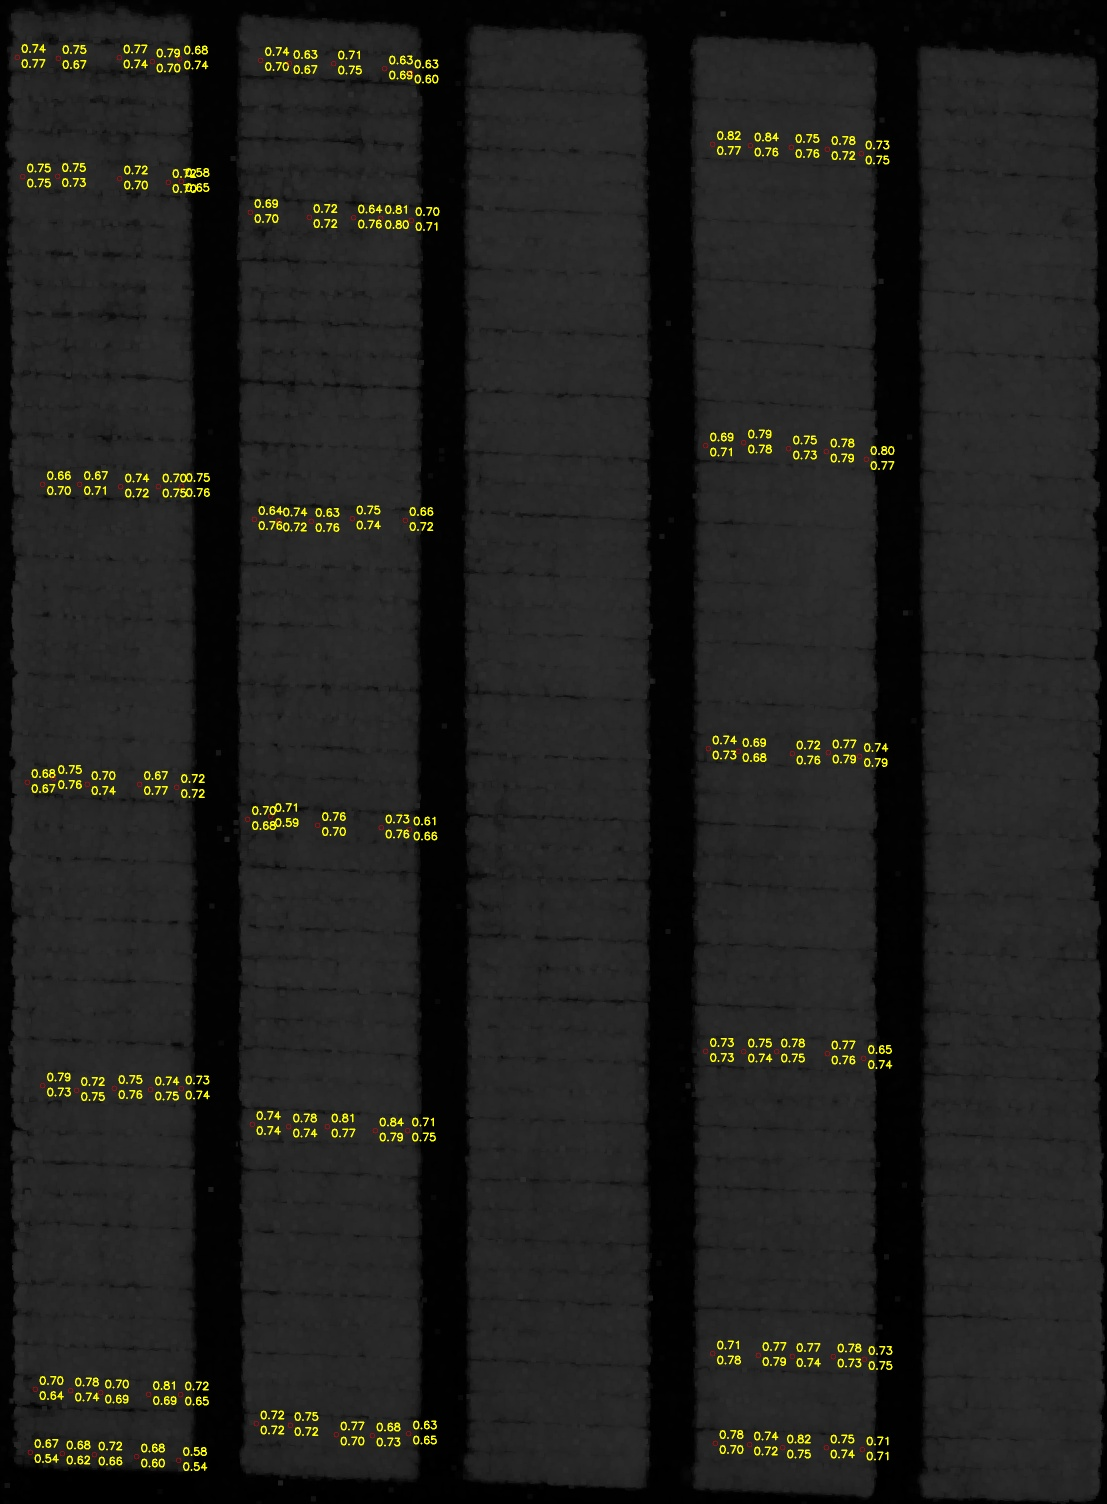
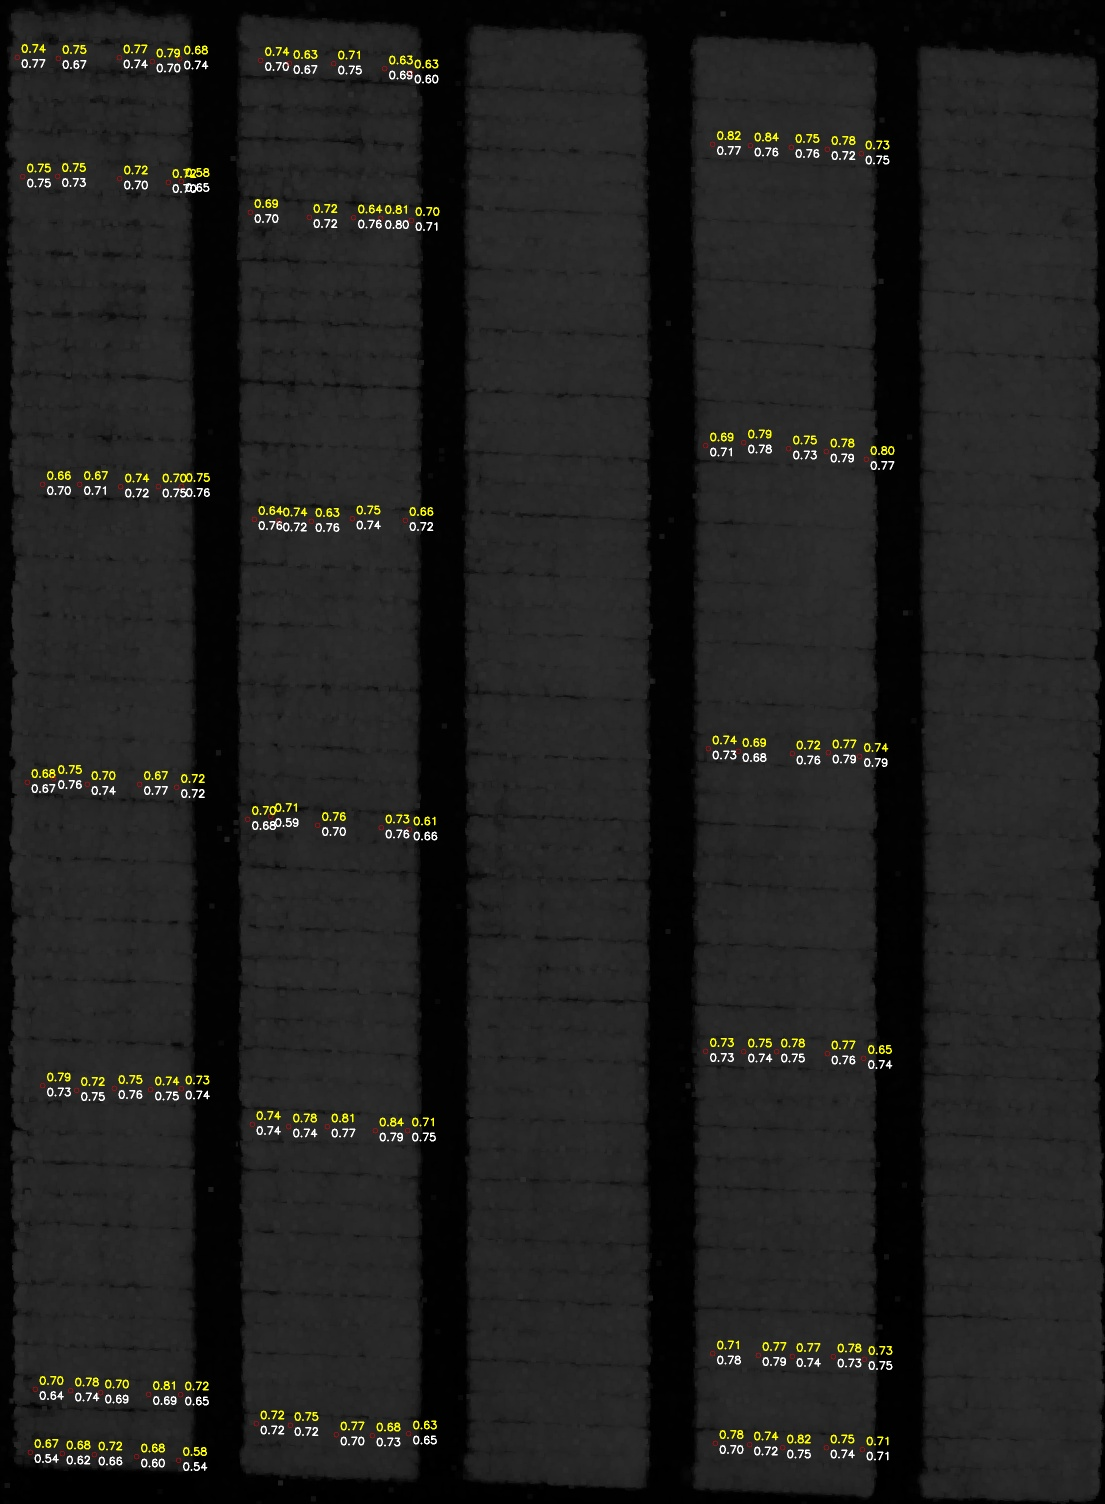
edit: better visualization of height img

diff --git a/tools/validate_heights.py b/tools/validate_heights.py
@@ -12,6 +12,8 @@ import cv2
 MAX_FILTER_SIZE = 10
 FONT_SCALE = .7
 ROUND = 4
+FROM = 0
+TO = 5
 
 sns.set_theme()
 
@@ -20,6 +22,10 @@ uncropped = cv2.imread(sorted(glob.glob(f"{PATH_RESULTS}/*/{IMAGE_MEDIAN}{EXTENS
 image_first, image_last = images[1], images[-1]
 
 image = np.clip(image_last - image_first, 0, Z_MAX)
+
+x_offset = (image.shape[1] // 5 * FROM)
+image = image[:, x_offset:image.shape[1] // 5 * TO]
+
 image = maximum_filter(image, size=MAX_FILTER_SIZE)
 median = np.uint16(cv2.medianBlur(np.uint8(image / 255), MAX_FILTER_SIZE * 2 + 1)) * 255
 median_max = maximum_filter(median, size=MAX_FILTER_SIZE)
@@ -84,6 +90,7 @@ def calculate_point(row):
 
 
 df = df.apply(calculate_point, axis=1)
+df["x"] = df["x"] - x_offset
 df = df[(df["x"].astype(int).isin(range(image.shape[1]))) & (df["y"].astype(int).isin(range(image.shape[0])))]
 
 df["height_lidar"] = image[df["y"].astype(int), df["x"].astype(int)] / Z_MAX * (info["z_max"] - info["z_min"])
@@ -92,15 +99,11 @@ df["height_diff"] = df["height"] - df["height_lidar"]
 image_last = cv2.cvtColor(np.uint8(image / 255), cv2.COLOR_GRAY2RGB)
 
 for _, row in df.iterrows():
-    px = round(row["x"])
-    py = round(row["y"])
+    px, py = round(row["x"]), round(row["y"])
 
-    if px in range(image.shape[1]) and py in range(image.shape[0]):
-        c = image[py, px] / Z_MAX * (info["z_max"] - info["z_min"])
-
-        cv2.circle(image_last, (px, py), 5, (0, 0, 255), 1)
-        cv2.putText(image_last, f"{row['height']:.2f}", (px + 8, py - 10), cv2.FONT_HERSHEY_SIMPLEX, FONT_SCALE, (0, Z_MAX // 2, Z_MAX), 2)
-        cv2.putText(image_last, f"{c:.2f}", (px + 8, py + 20), cv2.FONT_HERSHEY_SIMPLEX, FONT_SCALE, (0, Z_MAX // 2, Z_MAX), 2)
+    cv2.circle(image_last, (px, py), 5, (0, 0, 255), 1)
+    cv2.putText(image_last, f"{row['height']:.2f}", (px + 8, py - 10), cv2.FONT_HERSHEY_SIMPLEX, FONT_SCALE, (0, Z_MAX // 2, Z_MAX), 2)
+    cv2.putText(image_last, f"{row['height_lidar']:.2f}", (px + 8, py + 20), cv2.FONT_HERSHEY_SIMPLEX, FONT_SCALE, (Z_MAX //2, Z_MAX // 2, Z_MAX), 2)
 
 for df_what, df_name in [(df["height_diff"], ""), (np.abs(df["height_diff"]), " of abs")]:
     print("Mean" + df_name, round(df_what.mean(), ROUND))

diff --git a/tools/compress.py b/tools/compress.py
@@ -3,7 +3,7 @@ import glob
 import cv2
 import os
 
-SCALE = 1/3  # Fraction
+SCALE = 1/2  # Fraction
 BIT_CONVERSION = False
 SCALE_EXCEPT = ["compressed", "blocks", "fit", "histogram", "svg", "terrain", "sigmoid"]
 
@@ -24,7 +24,7 @@ for i in glob.glob("docs/*"):
     else:
         image_8bit = cv2.imread(i)
 
-    if "draw" in i or "count" in i or "A" in i or "B" in i or "C" in i:
+    if "draw" in i or "count" in i or "A" in i or "B" in i or "C" in i or "height_diff_image" in i:
         image_gray = image_8bit
     else:
         image_gray = cv2.cvtColor(image_8bit, cv2.COLOR_BGR2GRAY)
